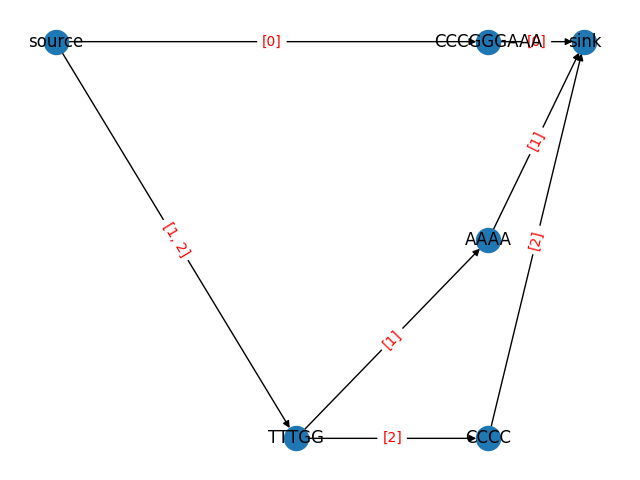
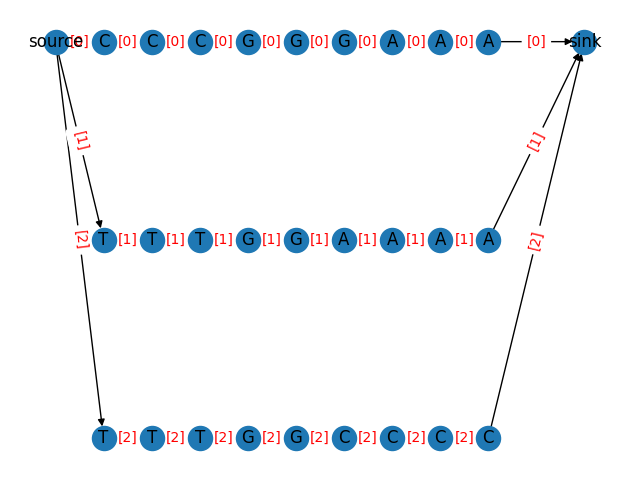
added local search random

diff --git a/Pangenome_graph.py b/Pangenome_graph.py
@@ -4,6 +4,7 @@
 from Bio import SeqIO
 import networkx as nx
 import matplotlib.pyplot as plt
+import random
 
 #----------------------------------------------------------------------------------------
 # Block class
@@ -90,14 +91,15 @@ def build_graph(matrix):
     return G, pos
 
 # Convert the nx graph into a gfa file
-# Da rivedere
+# TO DO: aggiungere percorso per ogni sequenza
 def graph_to_gfa(graph, filename):
     with open(filename, 'w') as f:
         f.write("H\tVN:Z:1.0\n")  # GFA header line
         for node, data in graph.nodes(data=True):
             f.write(f"S\t{node}\t*\tLN:i:{data['label']}\n")  # S-line for each node
         for u, v, data in graph.edges(data=True):
-            f.write(f"L\t{u}\t+\t{v}\t+\t*\n")  # L-line for each edge
+            edge_label = data.get('label', '*')  # Get the edge label, or use '*' if not present
+            f.write(f"L\t{u}\t+\t{v}\t+\t{edge_label}\n")  # L-line for each edge with label
 
 #Merge two block in one
 def merge_two_blocks(block_1, block_2, how):
@@ -110,7 +112,7 @@ def merge_two_blocks(block_1, block_2, how):
             block_1.begin_column,
             block_2.end_column
         )
-        print("Merged block ", block_1.id, "with block ", block_2.id, "by columns")
+        print("Merged block", block_1.id, "with block", block_2.id, "by columns")
     if how == "row_union":
         new_sequences_ids = block_1.sequences_ids + block_2.sequences_ids
         new_block = block(
@@ -120,7 +122,7 @@ def merge_two_blocks(block_1, block_2, how):
             block_1.begin_column,
             block_1.end_column
         )
-        print("Merged block ", block_1.id, "with block ", block_2.id, "by rows")
+        print("Merged block", block_1.id, "with block", block_2.id, "by rows")
     return new_block
 
 #Update blocks data
@@ -133,6 +135,10 @@ def update_blocks_with_same_id(block_matrix, new_block, id1, id2):
                 block_matrix[i][j] = new_block
     return block_matrix  
 
+# Random number from range and seed
+def generate_random_number(seed, start, end):
+    random.seed(seed)
+    return random.randint(start, end)
 
 # Euristichs
 def local_search(block_matrix):
@@ -142,7 +148,9 @@ def local_search(block_matrix):
         for j in range(cols):
             # Try to merge two blocks by rows
             if i+1 != rows:
-                if block_matrix[i][j].begin_column == block_matrix[i+1][j].begin_column and block_matrix[i][j].end_column == block_matrix[i+1][j].end_column and block_matrix[i][j].base == block_matrix[i+1][j].base:
+                if (block_matrix[i][j].begin_column == block_matrix[i+1][j].begin_column and
+                     block_matrix[i][j].end_column == block_matrix[i+1][j].end_column and
+                       block_matrix[i][j].base == block_matrix[i+1][j].base):
                     new_block = merge_two_blocks(block_matrix[i][j], block_matrix[i+1][j], "row_union")
                     block_matrix = update_blocks_with_same_id(block_matrix, new_block, block_matrix[i][j].id, block_matrix[i+1][j].id)
             # Try to merge two blocks by columns
@@ -150,16 +158,65 @@ def local_search(block_matrix):
                 if block_matrix[i][j].sequences_ids == block_matrix[i][j+1].sequences_ids:
                     new_block = merge_two_blocks(block_matrix[i][j], block_matrix[i][j+1], "column_union")
                     block_matrix = update_blocks_with_same_id(block_matrix, new_block, block_matrix[i][j].id, block_matrix[i][j+1].id)
-    return block_matrix
+    return block_matrix, "ls"
 
+def local_search_random(block_matrix):
+    
+    # Ask the user for a seed
+    #seed = int(input("Insert the seed for the random number: "))
 
+    rows = len(block_matrix)
+    cols = len(block_matrix[0])
+    cell_total = rows * cols
+    # Create a boolean matrix 
+    boolean_matrix = [[False] * cols for _ in range(rows)]
+
+    for x in range(cell_total * 2):
+        # Generate a random number using the user-provided seed
+        random_number = random.randint( 1, cell_total)
+        # Transform the number in matrix indeces 
+        row_index = (random_number - 1) // cols
+        col_index = (random_number - 1) % cols
+        # Check if the block is visited, if not then visit and try to merge
+        if boolean_matrix[row_index][col_index] == False :
+            boolean_matrix[row_index][col_index] = True
+            # Check up block
+            if row_index-1 >= 0:
+                if block_matrix[row_index][col_index].id != block_matrix[row_index-1][col_index].id:
+                    if (block_matrix[row_index][col_index].begin_column == block_matrix[row_index-1][col_index].begin_column and
+                            block_matrix[row_index][col_index].end_column == block_matrix[row_index-1][col_index].end_column and
+                            block_matrix[row_index][col_index].base == block_matrix[row_index-1][col_index].base):
+                        new_block = merge_two_blocks(block_matrix[row_index][col_index], block_matrix[row_index-1][col_index], "row_union")
+                        block_matrix = update_blocks_with_same_id(block_matrix, new_block, block_matrix[row_index][col_index].id, block_matrix[row_index-1][col_index].id)
+            # Check down block       
+            if row_index+1 < rows:
+                if block_matrix[row_index][col_index].id != block_matrix[row_index+1][col_index].id:
+                    if (block_matrix[row_index][col_index].begin_column == block_matrix[row_index+1][col_index].begin_column and
+                            block_matrix[row_index][col_index].end_column == block_matrix[row_index+1][col_index].end_column and
+                            block_matrix[row_index][col_index].base == block_matrix[row_index+1][col_index].base):
+                        new_block = merge_two_blocks(block_matrix[row_index][col_index], block_matrix[row_index+1][col_index], "row_union")
+                        block_matrix = update_blocks_with_same_id(block_matrix, new_block, block_matrix[row_index][col_index].id, block_matrix[row_index+1][col_index].id)
+            # Check left block
+            if col_index+1 >= 0:
+                if block_matrix[row_index][col_index].id != block_matrix[row_index][col_index-1].id:
+                    if block_matrix[row_index][col_index].sequences_ids == block_matrix[row_index][col_index-1].sequences_ids:
+                        new_block = merge_two_blocks(block_matrix[row_index][col_index], block_matrix[row_index][col_index-1], "column_union")
+                        block_matrix = update_blocks_with_same_id(block_matrix, new_block, block_matrix[row_index][col_index].id, block_matrix[row_index][col_index-1].id)
+            # Check right block
+            if col_index+1 < cols:
+                if block_matrix[row_index][col_index].id != block_matrix[row_index][col_index+1].id:
+                    if block_matrix[row_index][col_index].sequences_ids == block_matrix[row_index][col_index+1].sequences_ids:
+                        new_block = merge_two_blocks(block_matrix[row_index][col_index], block_matrix[row_index][col_index+1], "column_union")
+                        block_matrix = update_blocks_with_same_id(block_matrix, new_block, block_matrix[row_index][col_index].id, block_matrix[row_index][col_index+1].id)
+
+    return block_matrix, "lsr"
 
 
 
 #----------------------------------------------------------------------------------------
 # Main
 # Read msa from file
-filename = "test2"  # Change this to your .fa file
+filename = "test6"  # Change this to your .fa file
 sequences = read_fasta("Test_allignments/"+filename+".fa")
 
 # Convert sequences to matrix
@@ -169,7 +226,7 @@ sequence_matrix = sequences_to_matrix(sequences)
 block_matrix = build_blocks_from_sequence_matrix(sequence_matrix)
 
 #Euristich
-block_matrix = local_search(block_matrix)
+block_matrix, euristich = local_search_random(block_matrix)
 
 # Create the pangenome graph using the blocks
 # Each node is a block
@@ -180,12 +237,12 @@ nx.draw(graph, pos=pos, labels=nx.get_node_attributes(graph, 'label'), with_labe
 nx.draw_networkx_edge_labels(graph, pos=pos, edge_labels=nx.get_edge_attributes(graph, 'label'), font_color='red')
 
 # Save the image to a file
-plt.savefig('Graphs_from_test/graph_image_'+filename+'.png')
+plt.savefig('Graphs_from_test/graph_image_'+filename+'_'+euristich+'.png')
 
 # Show the graph
 plt.show()
 
 #Save graph
-file_path = 'Graphs_from_test/graph_'+filename+'.gfa'
+file_path = 'Graphs_from_test/graph_'+filename+'_'+euristich+'.gfa'
 graph_to_gfa(graph, file_path)
 
